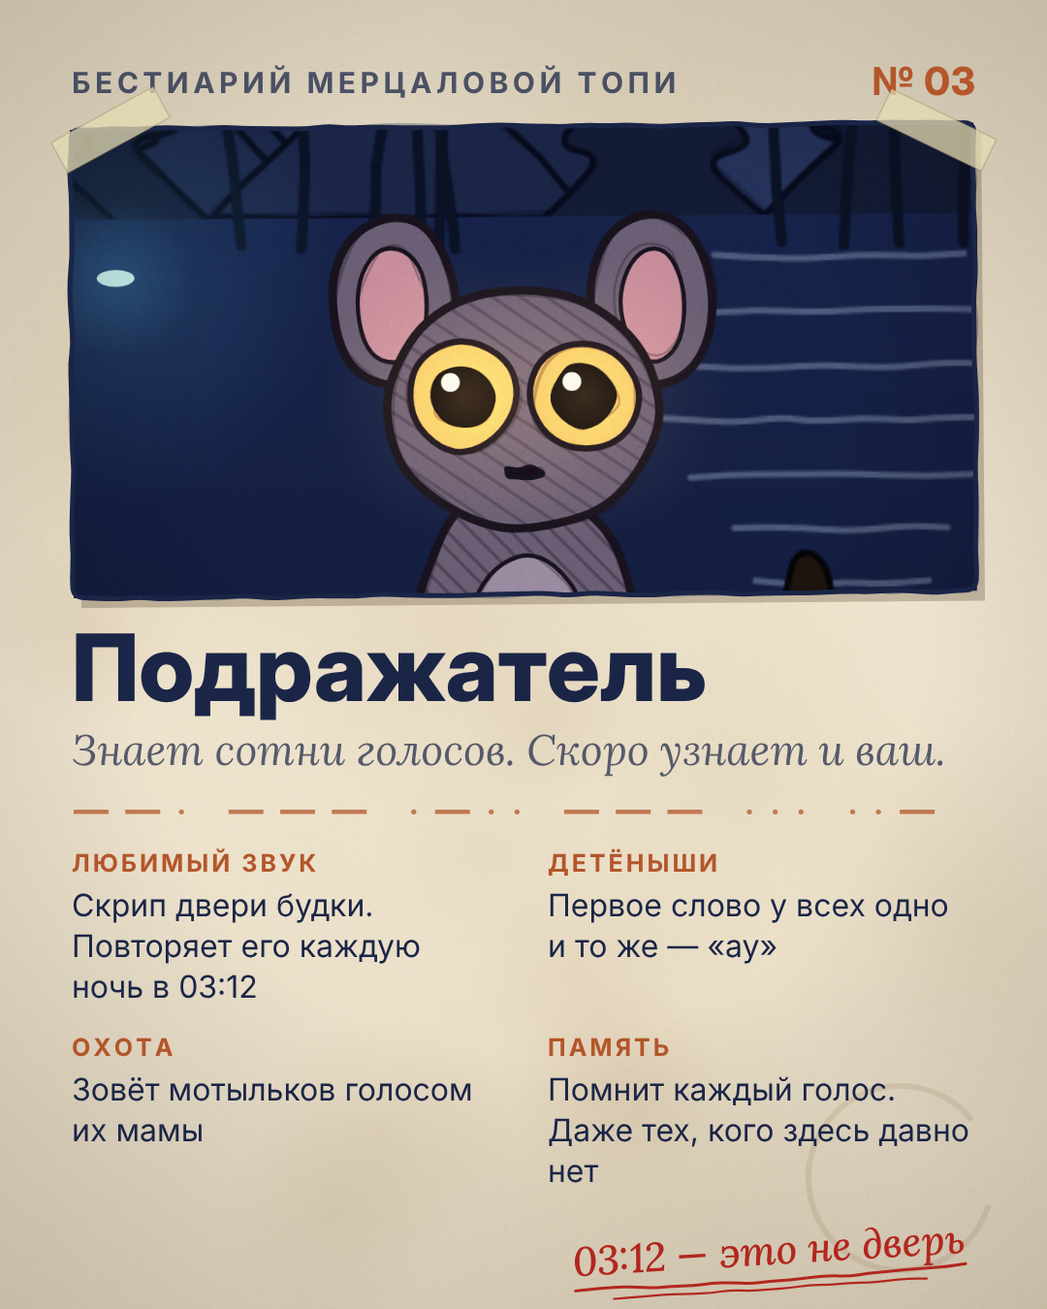
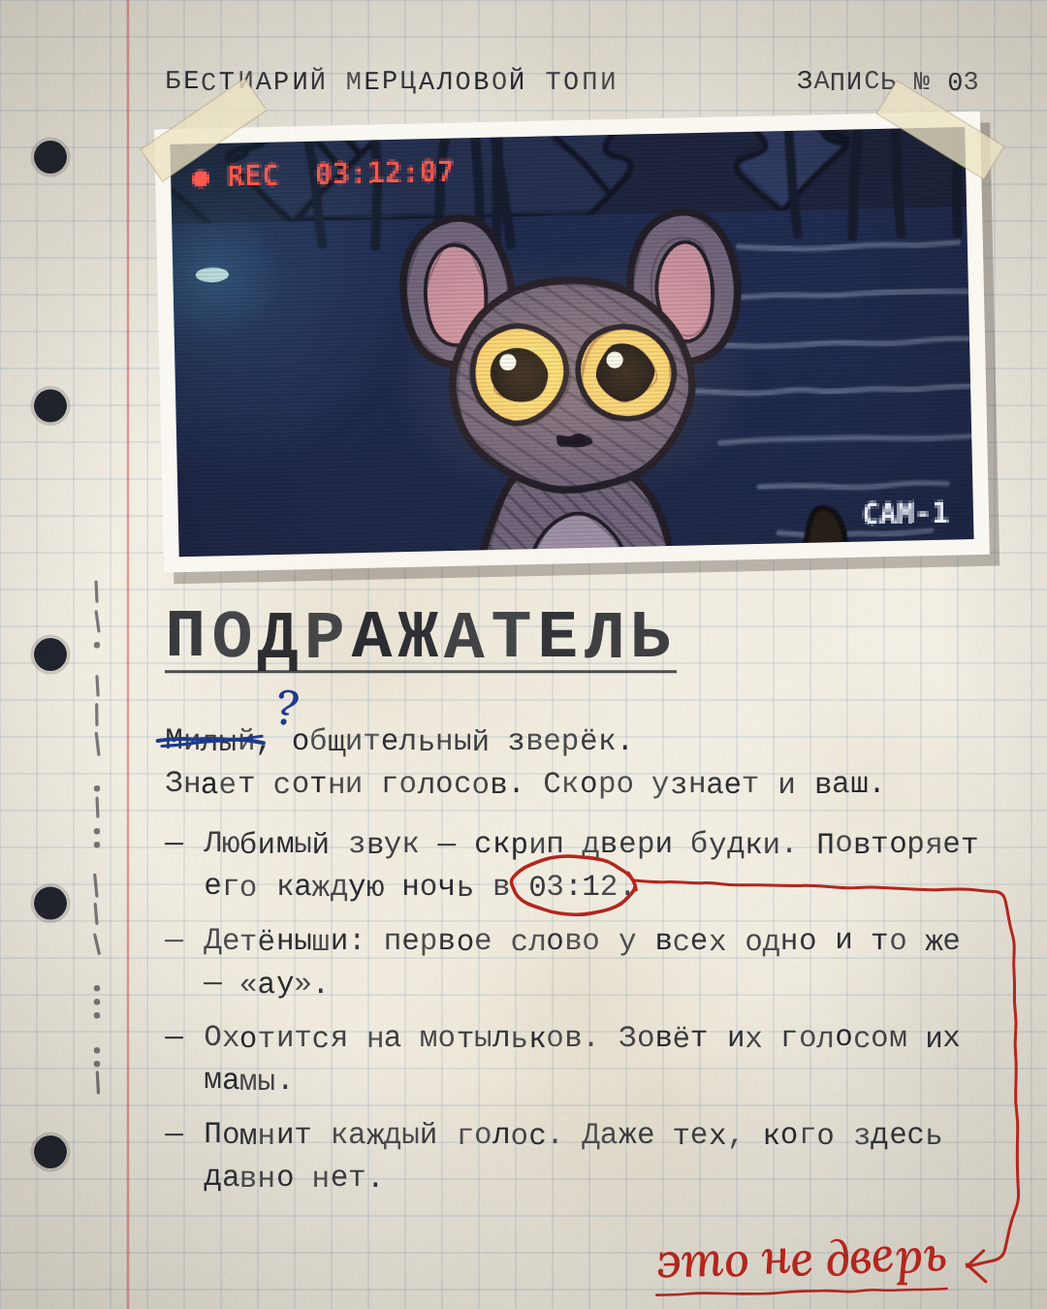
Бестиарий: новый вид карточки — страница журнала наблюдателя
Claude-Session: https://claude.ai/code/session_01PMMcvtn4e9Fhadnxo1m86U

diff --git a/merczalova-top/bestiary/film.js b/merczalova-top/bestiary/film.js
@@ -1,129 +1,186 @@
-// Карточка бестиария «Мерцаловой топи» (1080×1350): бумага полевого журнала, кадр в карандашной рамке,
-// факты в две колонки, пометка наблюдателя красной ручкой, разделитель — Морзе.
+// Карточка бестиария «Мерцаловой топи» — страница из журнала наблюдателя (1080×1350).
+// Тетрадный лист в клетку, распечатка с камеры на скотче, машинопись рассказчика, пометки наблюдателя ручкой.
 (function () {
   const U = globalThis.U, G = globalThis.G, Studio = globalThis.Studio;
   const W = G.W, H = G.H, k = W / 1080;
   const id = (new URLSearchParams(location.search)).get('card') || globalThis.CARD_ID;
   const C = globalThis.CARDS[id];
-  const INK = '#1A2547', RUST = '#B5562A', PAPER = '#EEE4CE', RED = '#B3261E';
+  const TYPE = '#23252B', PEN = '#1D3A8F', RED = '#B3261E';
+  const TW = '"Courier 10 Pitch", "Courier", monospace';
   let IMG = null;
-
   const MORSE = { А: '.-', Б: '-...', В: '.--', Г: '--.', Д: '-..', Е: '.', Ж: '...-', З: '--..', И: '..', Й: '.---', К: '-.-', Л: '.-..', М: '--', Н: '-.', О: '---', П: '.--.', Р: '.-.', С: '...', Т: '-', У: '..-', Ф: '..-.', Х: '....', Ц: '-.-.', Ч: '---.', Ш: '----', Щ: '--.-', Ы: '-.--', Ь: '-..-', Э: '..-..', Ю: '..--', Я: '.-.-' };
 
-  function font(ctx, size, weight = 400, fam = 'Inter', style = '') { ctx.font = `${style} ${weight} ${Math.round(size)}px "${fam}"`; }
-  function wrap(ctx, text, maxW) {
+  // машинопись: каждая буква чуть своя — неровный оттиск
+  function typeText(ctx, text, x, y, size, opts = {}) {
+    ctx.font = `${opts.bold ? 'bold ' : ''}${Math.round(size)}px ${TW}`;
+    const marks = {}; let cx = x;
+    [...text].forEach((ch, i) => {
+      const h = U.hash(i + text.length * 7, y | 0);
+      ctx.fillStyle = TYPE; ctx.globalAlpha = 0.78 + 0.22 * h;
+      ctx.fillText(ch, cx + (U.hash(i, 3) - 0.5) * 1.2 * k, y + (U.hash(i, 5) - 0.5) * 1.6 * k);
+      cx += ctx.measureText(ch).width + (opts.sp || 0);
+    });
+    ctx.globalAlpha = 1;
+    return cx;
+  }
+  function typeWrapped(ctx, text, x, y, size, maxW, lh, find) {
+    ctx.font = `${Math.round(size)}px ${TW}`;
     const words = text.split(' '), lines = []; let cur = '';
     for (const w of words) { const t = cur ? cur + ' ' + w : w; if (ctx.measureText(t).width > maxW && cur) { lines.push(cur); cur = w; } else cur = t; }
-    if (cur) lines.push(cur); return lines;
+    if (cur) lines.push(cur);
+    let hit = null;
+    lines.forEach((ln, i) => {
+      const yy = y + i * lh;
+      typeText(ctx, ln, x, yy, size);
+      if (find) { const j = ln.indexOf(find); if (j >= 0) { ctx.font = `${Math.round(size)}px ${TW}`; hit = { x: x + ctx.measureText(ln.slice(0, j)).width, y: yy, w: ctx.measureText(find).width }; } }
+    });
+    return { h: lines.length * lh, hit };
   }
-  function spaced(ctx, text, x, y, sp, align = 'left') {
-    const chars = [...text]; const w = chars.reduce((a, c) => a + ctx.measureText(c).width + sp, -sp);
-    let cx = align === 'right' ? x - w : x;
-    for (const c of chars) { ctx.fillText(c, cx, y); cx += ctx.measureText(c).width + sp; }
+  // «от руки»: курсив с дрожанием, каждая буква немного своя
+  function hand(ctx, text, x, y, size, color, rot = 0) {
+    ctx.save(); ctx.translate(x, y); ctx.rotate(rot);
+    ctx.font = `italic 500 ${Math.round(size)}px "Lora"`; ctx.fillStyle = color;
+    let cx = 0;
+    [...text].forEach((ch, i) => {
+      ctx.save(); ctx.translate(cx, (U.hash(i, 11) - 0.5) * size * 0.08); ctx.rotate((U.hash(i, 12) - 0.5) * 0.1);
+      ctx.fillText(ch, 0, 0); ctx.restore();
+      cx += ctx.measureText(ch).width * (0.96 + 0.06 * U.hash(i, 13));
+    });
+    ctx.restore();
+    return cx;
   }
+  function penLine(ctx, pts, color, lw, seed) { G.line(ctx, pts, { color, lw: lw * k, seed }); }
 
   function paper(ctx) {
-    ctx.fillStyle = PAPER; ctx.fillRect(0, 0, W, H);
-    // пятна и потёртости
-    for (let i = 0; i < 14; i++) {
-      const x = U.hash(i, 1) * W, y = U.hash(i, 2) * H, r = (60 + 220 * U.hash(i, 3)) * k;
-      const g = ctx.createRadialGradient(x, y, 0, x, y, r);
-      g.addColorStop(0, `rgba(150,110,60,${0.05 + 0.05 * U.hash(i, 4)})`); g.addColorStop(1, 'rgba(150,110,60,0)');
-      ctx.fillStyle = g; ctx.fillRect(x - r, y - r, r * 2, r * 2);
+    ctx.fillStyle = '#F2EEE3'; ctx.fillRect(0, 0, W, H);
+    // клетка
+    ctx.strokeStyle = 'rgba(70,110,170,0.16)'; ctx.lineWidth = 1.4 * k;
+    const g = 38 * k;
+    for (let x = 0; x < W; x += g) { ctx.beginPath(); ctx.moveTo(x, 0); ctx.lineTo(x, H); ctx.stroke(); }
+    for (let y = 0; y < H; y += g) { ctx.beginPath(); ctx.moveTo(0, y); ctx.lineTo(W, y); ctx.stroke(); }
+    // поля
+    ctx.strokeStyle = 'rgba(200,60,60,0.45)'; ctx.lineWidth = 2.5 * k;
+    ctx.beginPath(); ctx.moveTo(132 * k, 0); ctx.lineTo(132 * k, H); ctx.stroke();
+    // дырки под кольца
+    for (let i = 0; i < 5; i++) {
+      const y = H * (0.12 + 0.19 * i);
+      ctx.fillStyle = '#20242E'; ctx.beginPath(); ctx.arc(52 * k, y, 17 * k, 0, 7); ctx.fill();
+      ctx.strokeStyle = 'rgba(0,0,0,0.15)'; ctx.lineWidth = 3 * k; ctx.beginPath(); ctx.arc(52 * k, y, 19 * k, 0, 7); ctx.stroke();
     }
-    // след от кружки
-    ctx.strokeStyle = 'rgba(120,80,40,0.12)'; ctx.lineWidth = 6 * k;
-    ctx.beginPath(); ctx.arc(W * 0.86, H * 0.9, 95 * k, 0.3, 5.6); ctx.stroke();
-    const vg = ctx.createRadialGradient(W / 2, H / 2, H * 0.3, W / 2, H / 2, H * 0.75);
-    vg.addColorStop(0, 'rgba(0,0,0,0)'); vg.addColorStop(1, 'rgba(70,45,20,0.28)');
+    // пятна, потёртость, вода
+    for (let i = 0; i < 10; i++) {
+      const x = U.hash(i, 21) * W, y = U.hash(i, 22) * H, r = (80 + 200 * U.hash(i, 23)) * k;
+      const gr = ctx.createRadialGradient(x, y, 0, x, y, r);
+      gr.addColorStop(0, `rgba(140,110,60,${0.04 + 0.05 * U.hash(i, 24)})`); gr.addColorStop(1, 'rgba(140,110,60,0)');
+      ctx.fillStyle = gr; ctx.fillRect(x - r, y - r, r * 2, r * 2);
+    }
+    const vg = ctx.createRadialGradient(W / 2, H / 2, H * 0.32, W / 2, H / 2, H * 0.78);
+    vg.addColorStop(0, 'rgba(0,0,0,0)'); vg.addColorStop(1, 'rgba(60,45,25,0.3)');
     ctx.fillStyle = vg; ctx.fillRect(0, 0, W, H);
   }
-
-  function tape(ctx, x, y, ang) {
+  function tape(ctx, x, y, ang, w = 130) {
     ctx.save(); ctx.translate(x, y); ctx.rotate(ang);
-    ctx.fillStyle = 'rgba(230,220,180,0.75)'; ctx.fillRect(-60 * k, -18 * k, 120 * k, 36 * k);
-    ctx.strokeStyle = 'rgba(150,130,90,0.35)'; ctx.lineWidth = 1.5 * k; ctx.strokeRect(-60 * k, -18 * k, 120 * k, 36 * k);
+    ctx.fillStyle = 'rgba(236,228,196,0.78)'; ctx.fillRect(-w / 2 * k, -20 * k, w * k, 40 * k);
+    ctx.strokeStyle = 'rgba(150,130,90,0.3)'; ctx.lineWidth = 1.5 * k; ctx.strokeRect(-w / 2 * k, -20 * k, w * k, 40 * k);
     ctx.restore();
   }
-
-  function morseRule(ctx, word, x0, x1, y) {
-    // разделитель из точек и тире — читается как Морзе
-    const u = 7 * k, items = [];
-    for (const ch of word) { [...(MORSE[ch] || '')].forEach((s, i) => { if (i) items.push(['gap', 1]); items.push([s, s === '-' ? 3 : 1]); }); items.push(['gap', 3]); }
-    const unitW = (x1 - x0) / items.reduce((a, [, d]) => a + d, 0);
-    let x = x0; ctx.fillStyle = 'rgba(181,86,42,0.75)';
-    for (const [s, d] of items) {
-      if (s === '.') { ctx.beginPath(); ctx.arc(x + unitW / 2, y, 2.6 * k, 0, 7); ctx.fill(); }
-      else if (s === '-') ctx.fillRect(x + unitW * 0.15, y - 2.2 * k, unitW * 2.7, 4.4 * k);
-      x += d * unitW;
+  const pix = document.createElement('canvas');
+  function pixelText(ctx, text, x, y, scale, color, align = 'left') {
+    const fs = 10, px = pix.getContext('2d');
+    px.font = `bold ${fs}px monospace`; const w = Math.ceil(px.measureText(text).width) + 4;
+    pix.width = w; pix.height = fs + 5; px.font = `bold ${fs}px monospace`; px.textBaseline = 'top'; px.fillStyle = color; px.fillText(text, 2, 2);
+    ctx.save(); ctx.imageSmoothingEnabled = false;
+    ctx.drawImage(pix, align === 'right' ? x - w * scale : x, y, w * scale, pix.height * scale); ctx.restore();
+  }
+  function printout(ctx, x, y, w, h, rot) {
+    ctx.save();
+    ctx.translate(x + w / 2, y + h / 2); ctx.rotate(rot); ctx.translate(-w / 2, -h / 2);
+    const b = 16 * k;
+    ctx.fillStyle = 'rgba(40,30,20,0.28)'; ctx.fillRect(-b + 10 * k, -b + 12 * k, w + 2 * b, h + 2 * b);
+    ctx.fillStyle = '#FAF8F2'; ctx.fillRect(-b, -b, w + 2 * b, h + 2 * b);
+    ctx.drawImage(IMG, 0, 0, w, h);
+    // строки развёртки и лёгкая выцветшесть распечатки
+    ctx.fillStyle = 'rgba(255,255,255,0.05)'; ctx.fillRect(0, 0, w, h);
+    for (let yy = 0; yy < h; yy += 4 * k) { ctx.fillStyle = 'rgba(0,0,0,0.10)'; ctx.fillRect(0, yy, w, 1.4 * k); }
+    const s = Math.round(3 * k);
+    pixelText(ctx, `● REC  ${C.rec}`, 16 * k, 14 * k, s, '#FF5A4E');
+    pixelText(ctx, 'CAM-1', w - 16 * k, h - 48 * k, s, '#E9EEF8', 'right');
+    ctx.restore();
+  }
+  function morseMargin(ctx, word, x, y0) {
+    // наблюдатель карандашом рисует точки и тире на полях — столбиком
+    let y = y0;
+    for (const ch of word) {
+      for (const s of (MORSE[ch] || '')) {
+        if (s === '.') { ctx.fillStyle = 'rgba(40,40,50,0.6)'; ctx.beginPath(); ctx.arc(x, y, 3.2 * k, 0, 7); ctx.fill(); y += 14 * k; }
+        else { penLine(ctx, [[x - 1 * k, y - 4 * k], [x + 1 * k, y + 16 * k]], 'rgba(40,40,50,0.6)', 3.2, y | 0); y += 30 * k; }
+      }
+      y += 22 * k;
     }
-    return u;
   }
 
   Studio.film({
-    async init() { IMG = await Studio.loadImage(C.img); await document.fonts.load('italic 40px "Lora"'); await document.fonts.load('800 40px "Inter Display"'); },
+    async init() { IMG = await Studio.loadImage(C.img); await document.fonts.load('italic 500 40px "Lora"'); await document.fonts.load(`32px ${TW}`); },
     draw(ctx) {
       paper(ctx);
-      const M = 74 * k;
-      // шапка
+      const L = 170 * k, R = W - 70 * k;
       ctx.textBaseline = 'alphabetic';
-      font(ctx, 30 * k, 700); ctx.fillStyle = 'rgba(26,37,71,0.75)';
-      spaced(ctx, 'БЕСТИАРИЙ МЕРЦАЛОВОЙ ТОПИ', M, 96 * k, 4.5 * k);
-      font(ctx, 40 * k, 800, 'Inter Display'); ctx.fillStyle = RUST;
-      spaced(ctx, `№ ${C.no}`, W - M, 98 * k, 1 * k, 'right');
+      typeText(ctx, 'БЕСТИАРИЙ МЕРЦАЛОВОЙ ТОПИ', L, 92 * k, 27 * k, { sp: 2.5 * k });
+      ctx.font = `${Math.round(27 * k)}px ${TW}`;
+      const lab = `ЗАПИСЬ № ${C.no}`; typeText(ctx, lab, R - ctx.measureText(lab).width - 10 * k, 92 * k, 27 * k, { sp: 1 * k });
 
-      // кадр в рамке
-      const fx = M, fy = 130 * k, fw = W - 2 * M, fh = fw * (IMG.height / IMG.width);
-      ctx.save();
-      ctx.translate(W / 2, fy + fh / 2); ctx.rotate(-0.008); ctx.translate(-W / 2, -(fy + fh / 2));
-      ctx.fillStyle = 'rgba(60,40,20,0.25)'; ctx.fillRect(fx + 8 * k, fy + 10 * k, fw, fh);
-      ctx.save(); ctx.beginPath(); ctx.rect(fx, fy, fw, fh); ctx.clip();
-      ctx.drawImage(IMG, fx, fy, fw, fh);
-      ctx.restore();
-      G.poly(ctx, [[fx, fy], [fx + fw, fy], [fx + fw, fy + fh], [fx, fy + fh]], { fill: null, lw: 5, seed: 7, stroke: INK });
-      ctx.restore();
-      tape(ctx, fx + 40 * k, fy + 4 * k, -0.5);
-      tape(ctx, fx + fw - 40 * k, fy + 4 * k, 0.45);
+      // распечатка с камеры
+      const pw = R - L - 20 * k, ph = pw * (IMG.height / IMG.width), px = L + 10 * k, py = 140 * k;
+      printout(ctx, px, py, pw, ph, -0.022);
+      tape(ctx, px + 30 * k, py - 6 * k, -0.6);
+      tape(ctx, px + pw - 30 * k, py - 6 * k, 0.55);
 
-      // имя и подзаголовок
-      let y = fy + fh + 110 * k;
-      font(ctx, 96 * k, 800, 'Inter Display'); ctx.fillStyle = INK;
-      ctx.fillText(C.title, M, y);
-      y += 66 * k;
-      font(ctx, 44 * k, 400, 'Lora', 'italic'); ctx.fillStyle = 'rgba(26,37,71,0.72)';
-      ctx.fillText(C.sub, M, y);
+      // имя
+      let y = py + ph + 112 * k;
+      const tEnd = typeText(ctx, C.title.toUpperCase(), L, y, 70 * k, { bold: true, sp: 6 * k });
+      ctx.fillStyle = TYPE; ctx.globalAlpha = 0.8; ctx.fillRect(L, y + 14 * k, tEnd - L, 3 * k); ctx.globalAlpha = 1;
 
-      // разделитель-Морзе
-      y += 48 * k;
-      morseRule(ctx, C.morse, M, W - M, y);
+      // вступление: «Милый…» — наблюдатель зачёркивает
+      y += 96 * k;
+      const fs = 31 * k, lh = 44 * k, maxW = R - L;
+      typeText(ctx, C.intro, L, y, fs);
+      ctx.font = `${Math.round(fs)}px ${TW}`;
+      const sw = ctx.measureText(C.strike).width;
+      penLine(ctx, [[L - 6 * k, y - 10 * k], [L + sw * 0.5, y - 12 * k], [L + sw + 8 * k, y - 8 * k]], PEN, 4, 41);
+      penLine(ctx, [[L - 4 * k, y - 3 * k], [L + sw + 6 * k, y - 14 * k]], PEN, 3, 42);
+      hand(ctx, C.strikeNote, L + sw + 18 * k, y - 26 * k, 50 * k, PEN, 0.15);
 
-      // факты в две колонки
-      const colW = (W - 2 * M - 50 * k) / 2;
-      let rowY = y + 62 * k;
-      for (let r = 0; r < 2; r++) {
-        let maxH = 0;
-        for (let c = 0; c < 2; c++) {
-          const [lab, val] = C.facts[r * 2 + c];
-          const x = M + c * (colW + 50 * k);
-          font(ctx, 25 * k, 700); ctx.fillStyle = RUST; spaced(ctx, lab.toUpperCase(), x, rowY, 3 * k);
-          font(ctx, 32 * k, 400); ctx.fillStyle = INK;
-          const lines = wrap(ctx, val, colW);
-          lines.forEach((ln, i) => ctx.fillText(ln, x, rowY + 46 * k + i * 42 * k));
-          maxH = Math.max(maxH, 46 * k + (lines.length - 1) * 42 * k);
-        }
-        rowY += maxH + 60 * k;
+      y += lh;
+      y += typeWrapped(ctx, C.sub, L, y, fs, maxW, lh).h + 18 * k;
+
+      // факты
+      let circ = null;
+      for (const f of C.facts) {
+        typeText(ctx, '—', L, y, fs);
+        const r = typeWrapped(ctx, f, L + 40 * k, y, fs, maxW - 40 * k, lh, C.circle);
+        if (r.hit) circ = r.hit;
+        y += r.h + 12 * k;
       }
 
-      // пометка наблюдателя красной ручкой
-      ctx.save();
-      ctx.translate(W - M - 10 * k, H - 58 * k); ctx.rotate(-0.06);
-      font(ctx, 42 * k, 500, 'Lora', 'italic'); ctx.fillStyle = RED;
-      ctx.textAlign = 'right'; ctx.fillText(C.note, 0, 0);
-      const nw = ctx.measureText(C.note).width;
-      G.line(ctx, [[-nw, 14 * k], [-nw * 0.5, 18 * k], [0, 12 * k]], { color: RED, lw: 3 * k, seed: 31 });
-      G.line(ctx, [[-nw * 0.9, 26 * k], [-nw * 0.1, 24 * k]], { color: RED, lw: 2.2 * k, seed: 32 });
-      ctx.restore();
+      // обвести «03:12» и написать на полях
+      if (circ) {
+        const cx = circ.x + circ.w / 2, cy = circ.y - 10 * k, rx = circ.w / 2 + 16 * k, ry = 30 * k;
+        const pts = []; for (let i = 0; i <= 26; i++) { const a = -0.4 + (i / 24) * Math.PI * 2; pts.push([cx + Math.cos(a) * rx * (1 + 0.04 * Math.sin(i)), cy + Math.sin(a) * ry]); }
+        penLine(ctx, pts, RED, 3.6, 51);
+        // стрелка уходит вправо на поля и вниз, пометка — под фактами
+        ctx.font = `italic 500 ${Math.round(50 * k)}px "Lora"`;
+        const nw0 = ctx.measureText(C.note).width;
+        const ex = W - 34 * k, ny = Math.max(y + 40 * k, H - 70 * k), nx = R - nw0 - 30 * k;
+        penLine(ctx, [[cx + rx, cy - 4 * k], [ex - 10 * k, cy + 6 * k], [ex, cy + 60 * k], [ex + 4 * k, ny - 80 * k], [ex - 12 * k, ny - 20 * k], [nx + nw0 + 18 * k, ny - 14 * k]], RED, 3, 52);
+        penLine(ctx, [[nx + nw0 + 18 * k, ny - 14 * k], [nx + nw0 + 36 * k, ny - 30 * k]], RED, 3, 53);
+        penLine(ctx, [[nx + nw0 + 18 * k, ny - 14 * k], [nx + nw0 + 38 * k, ny + 2 * k]], RED, 3, 54);
+        const nw = hand(ctx, C.note, nx, ny, 50 * k, RED, -0.03);
+        penLine(ctx, [[nx, ny + 16 * k], [nx + nw * 0.6, ny + 13 * k], [nx + nw, ny + 9 * k]], RED, 2.6, 55);
+      }
+
+      // Морзе на полях карандашом
+      morseMargin(ctx, C.morse, 100 * k, py + ph + 40 * k);
     },
-    post: { paper: 0.2, vignette: 0, grain: 0.04 },
+    post: { paper: 0.18, vignette: 0, grain: 0.045 },
   });
 })();

diff --git a/merczalova-top/bestiary/cards.js b/merczalova-top/bestiary/cards.js
@@ -1,15 +1,17 @@
-// Данные карточек. Факты — только то, чего не было в серии. Милота + одна жуткая нота + ARG (пометка наблюдателя, Морзе в разделителе).
+// Данные карточек бестиария (страница журнала наблюдателя).
+// Машинопись — голос рассказчика (нежно). Ручка — наблюдатель (зачёркивает, обводит, пишет на полях). Факты — только новое, не из серии.
 globalThis.CARDS = {
   podrazhatel: {
-    no: '03', img: 'img/podrazhatel.png', title: 'Подражатель',
+    no: '03', img: 'img/podrazhatel.png', rec: '03:12:07', title: 'Подражатель',
+    intro: 'Милый, общительный зверёк.', strike: 'Милый', strikeNote: '?',
     sub: 'Знает сотни голосов. Скоро узнает и ваш.',
     facts: [
-      ['Любимый звук', 'Скрип двери будки. Повторяет его каждую ночь в 03:12'],
-      ['Детёныши', 'Первое слово у всех одно и то же — «ау»'],
-      ['Охота', 'Зовёт мотыльков голосом их мамы'],
-      ['Память', 'Помнит каждый голос. Даже тех, кого здесь давно нет'],
+      'Любимый звук — скрип двери будки. Повторяет его каждую ночь в 03:12.',
+      'Детёныши: первое слово у всех одно и то же — «ау».',
+      'Охотится на мотыльков. Зовёт их голосом их мамы.',
+      'Помнит каждый голос. Даже тех, кого здесь давно нет.',
     ],
-    note: '03:12 — это не дверь',
+    circle: '03:12', note: 'это не дверь',
     morse: 'ГОЛОСУ',
   },
 };

diff --git a/merczalova-top/PUBLISHING.md b/merczalova-top/PUBLISHING.md
@@ -262,11 +262,12 @@ hashtag-strategy, profile-optimization). Главное правило 2026 го
 А чей голос он повторил бы у вас дома?
 ```
 
-**Карточки бестиария — как делать.** Исходник: `bestiary/` (`cards.js` — данные, `film.js` — вёрстка; кадр из серии кладём в `bestiary/img/`). Рендер: скопировать `engine/` в `bestiary/`, `node engine/render.js stills 2`, файл — `out/stills/t_002.00.png`. Правила содержания:
+**Карточки бестиария — как делать.** Вид — **страница из журнала наблюдателя** (не как у «Долины Невидаль»): тетрадный лист в клетку с дырками под кольца, распечатка с камеры на скотче (`● REC 03:1x:xx`, `CAM-1`, строки развёртки), машинопись — голос рассказчика, пометки ручкой — наблюдатель. Исходник: `bestiary/` (`cards.js` — данные, `film.js` — вёрстка; кадр из серии кладём в `bestiary/img/`). Рендер: скопировать `engine/` в `bestiary/`, `node engine/render.js stills 2`, файл — `out/stills/t_002.00.png`. Правила содержания:
 - в карточке **только новое** — ничего из того, что уже сказано в серии;
 - подзаголовок курсивом: милая фраза с жутким поворотом в конце;
 - 4 факта: 2–3 милых, 1–2 с жутью;
-- **ARG:** пометка наблюдателя красной ручкой (короткая, без объяснений) и разделитель из точек-тире — это Морзе-слово серии;
+- **два голоса:** машинопись нежная; наблюдатель ручкой зачёркивает «милое» слово (ставит «?»), обводит деталь и пишет короткую пометку красным — без объяснений;
+- **ARG:** таймкод REC на распечатке, пометка наблюдателя и Морзе-слово серии карандашом на полях (точки и тире столбиком);
 - подпись к посту — **полноценный текст** (до ~1000 знаков, лимит подписи к картинке в Telegram — 1024): маленькая история в голосе рассказчика с новыми деталями, которых нет ни в серии, ни на карточке; жуткий поворот в конце + вопрос к читателю.
 
 **Подпись серии в Telegram** — по шаблону: имя существа и милая суть → одна фраза-крючок → вопрос. Без хэштегов (в Telegram они почти не дают охвата).
